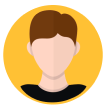
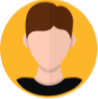
Import and adjust crop of female png, implement in client view

diff --git a/next/src/app/clients/clients.tsx b/next/src/app/clients/clients.tsx
@@ -1,16 +1,15 @@
 'use client';
 
 import { SectionLabel } from '@/components/UI/SectionLabel';
-import { useEffect, useMemo, useState } from 'react';
+import { useState } from 'react';
 import styles from './clients.module.scss';
 import { sample_clients } from '@/utility/sample_data/sample_clients';
 import { sample_businesses } from '@/utility/sample_data/sample_businesses';
+import Image from 'next/image';
 
 export const Clients = () => {
 
   const [query, setQuery] = useState<string>('');
-
-  
 
   return (
     <div className={styles.clients}>
@@ -22,7 +21,7 @@ export const Clients = () => {
             <SectionLabel label={b.name} />
             {clients.map(c => (
               <div key={c.id} className={styles.client}>
-                
+                {c.avatar && <Image alt="client avatar" src={c.avatar} style={{width: 30, height: 30}} />}
                 <p>{c.name}</p>
               </div>
             ))}

diff --git a/next/src/app/clients/clients.module.scss b/next/src/app/clients/clients.module.scss
@@ -21,10 +21,13 @@
   margin: 10px;
   padding: 5px;
 
+  display: flex;
+  align-items: center;
+  
   width: 100%;
 
   p {
     font-size: 14px;
-
+    margin-left: 15px;
   }
 }
